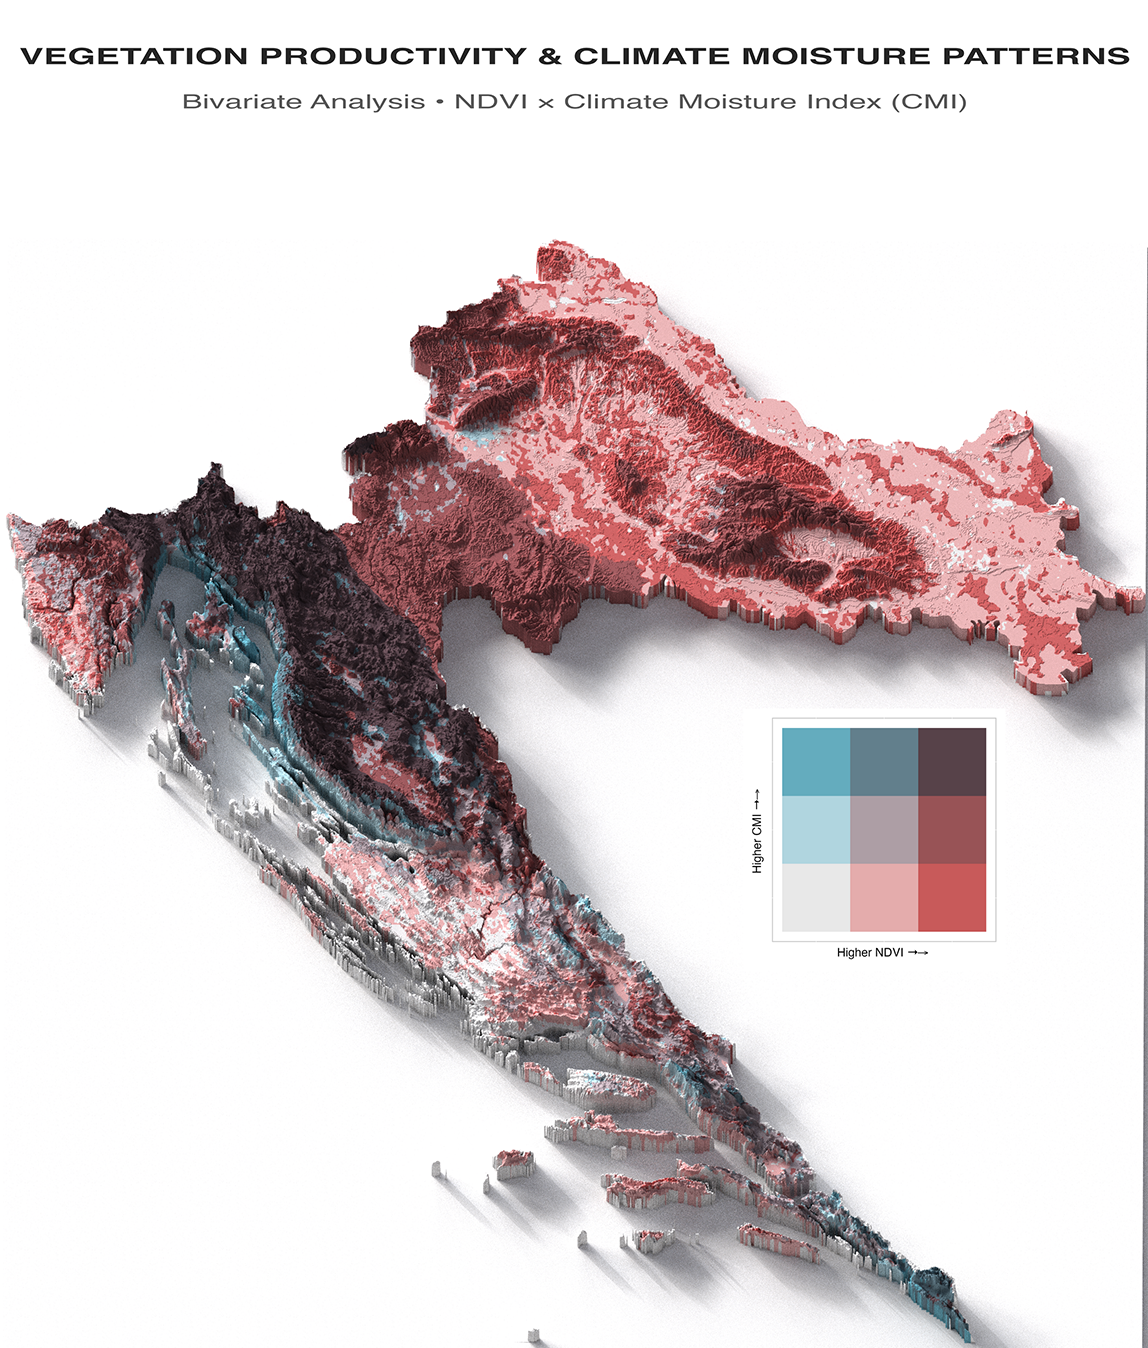
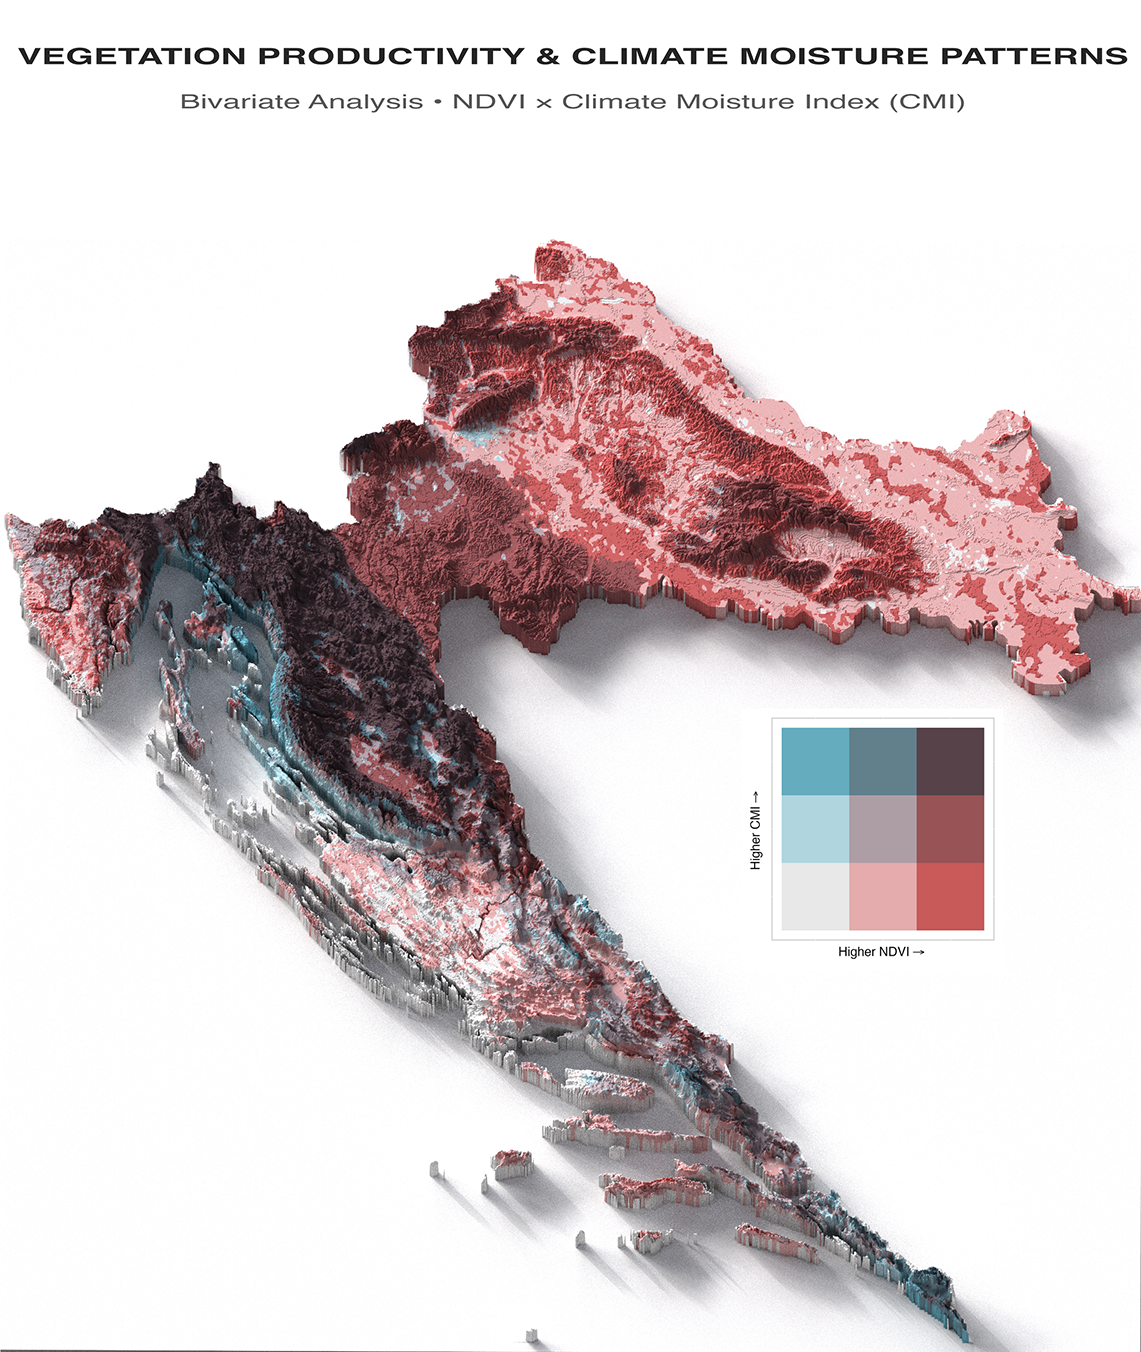
commit

diff --git a/content/en/posts/bivariate/index.md b/content/en/posts/bivariate/index.md
@@ -124,7 +124,7 @@ export_to_drive <- function(image, year) {
         description = paste0("croatia_ndvi_", year),
         folder = "Earth_Engine_Exports",
         fileNamePrefix = paste0("croatia_ndvi_", year),
-        scale = 1000,  # 1km pixel size balances detail with processing speed
+        scale = 1000,  
         region = croatia$geometry()$bounds(),
         maxPixels = 1e9  # Limit prevents timeout on large exports
     )
@@ -220,7 +220,7 @@ croatia_sf <- geodata::gadm(
     path = main_dir
 ) |> sf::st_as_sf()
 
-# Use WGS84 geographic coordinate system for broad compatibility
+# Use WGS84 geographic coordinate system 
 target_crs <- "EPSG:4326"
 
 # Obtain high-resolution elevation data for terrain context
@@ -229,7 +229,7 @@ dem_raw <- elevatr::get_elev_raster(
     z = 9,                  
     clip = "locations"       
 ) |>
-    terra::rast() |>                    # Convert to terra format
+    terra::rast() |>                         # Convert to terra format
     terra::crop(croatia_sf, mask = TRUE) |>  # Crop and mask to country
     terra::project(target_crs)         
 ```
@@ -366,8 +366,8 @@ bivariate_legend <- function(size = 9) {
     biscale::bi_legend(
         pal = "GrPink",
         dim = 3,
-        xlab = "Higher NDVI →",
-        ylab = "Higher CMI →",
+        xlab = "Higher NDVI",
+        ylab = "Higher CMI",
         size = size
     ) +
     theme(
@@ -431,7 +431,7 @@ ggsave(
 ➡ Class 1-1 (Light Blue): Low NDVI + Low CMI  
 These areas represent the combination of limited moisture and low vegetation productivity 
 
-➡ Class 1-2 (Medium Blue): Low NDVI + Medium CMI
+➡ Class 1-2 (Medium Blue): Low NDVI + Medium CMI  
 These areas have moderate moisture availability but still show limited vegetation response. 
 
 ➡ Class 1-3 (Dark Blue): Low NDVI + High CMI  
@@ -504,9 +504,9 @@ rayshader::plot_gg(
     windowsize = c(900, 900),   # Display window size in pixels
     scale = 250,                # Vertical exaggeration for dramatic terrain
     shadow = TRUE,              # Enable shadows for depth perception
-    shadow_intensity = 1,     # Shadow strength (0-1 scale)
+    shadow_intensity = 1,       # Shadow strength (0-1 scale)
     phi = 90,                   # Camera elevation angle (0-90 degrees)
-    theta = 0,                # Camera azimuth angle (0-360 degrees)
+    theta = 0,                  # Camera azimuth angle (0-360 degrees)
     zoom = 0.56,                # Camera zoom level
     multicore = TRUE            # Use multiple processor cores for speed
 )
